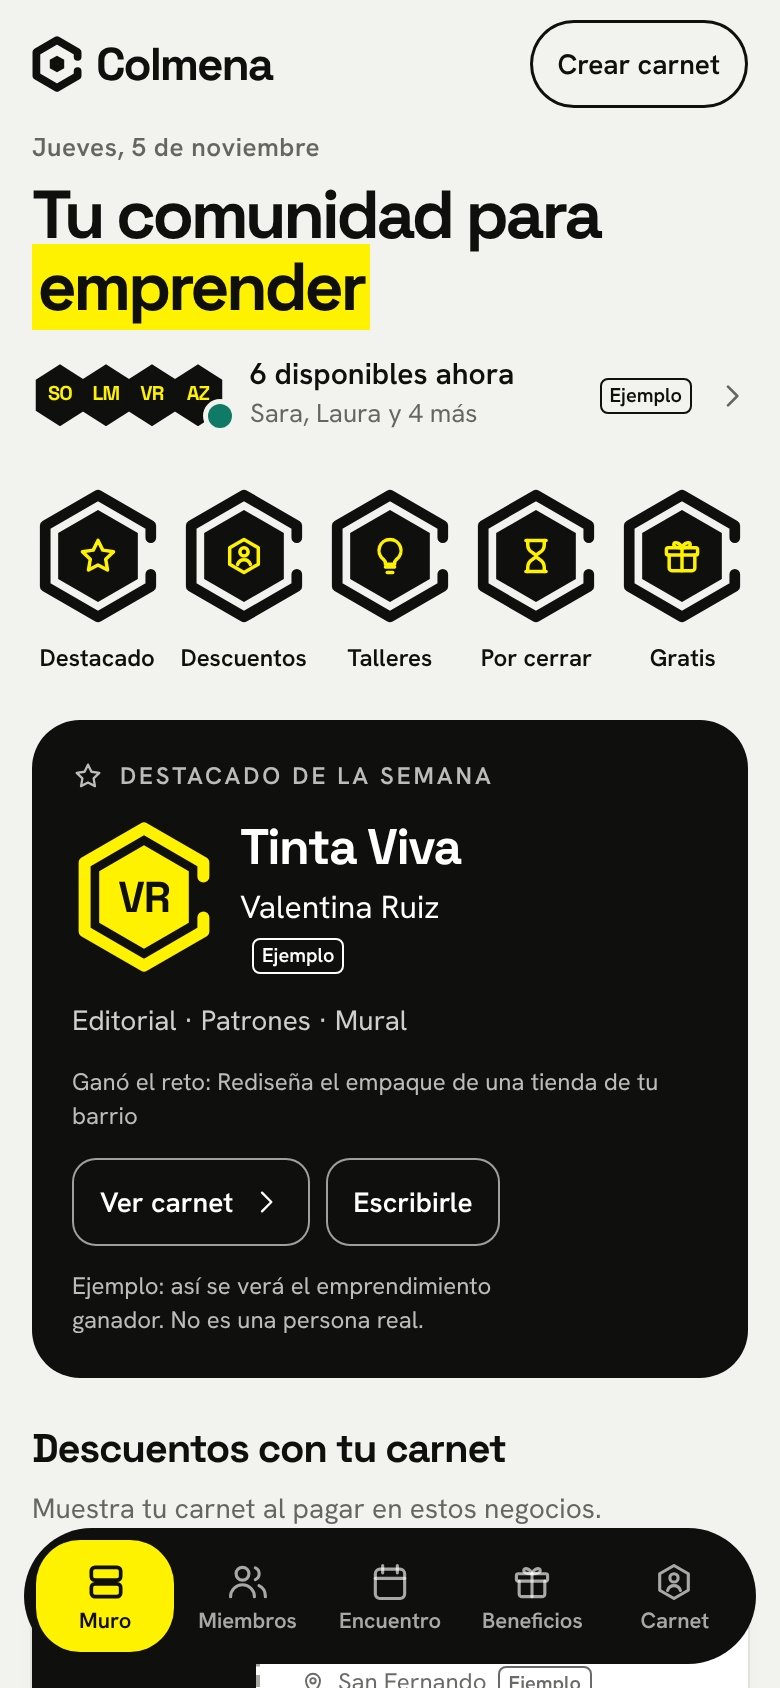
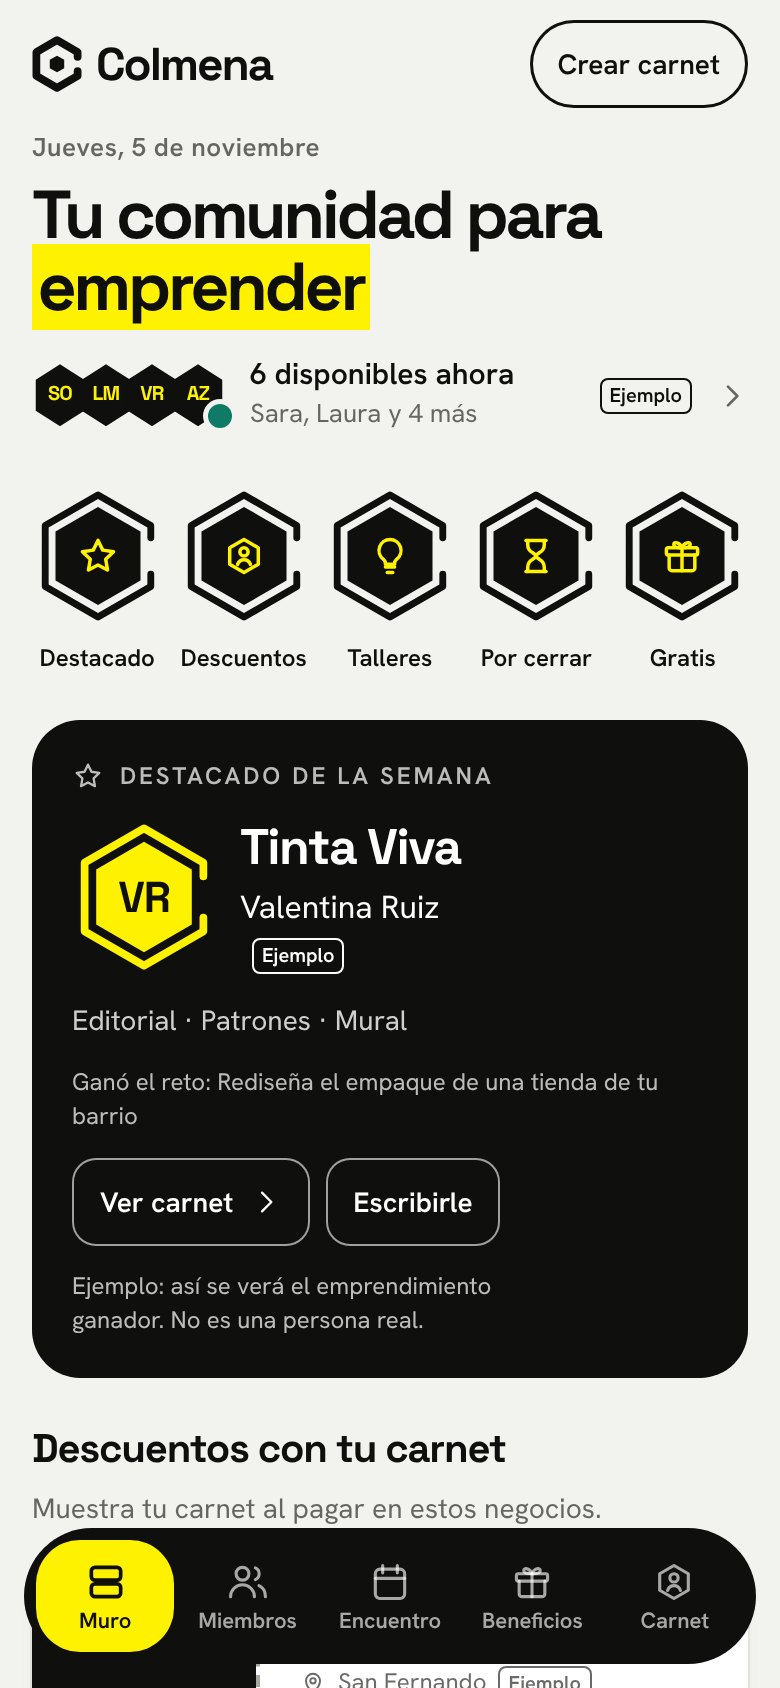
Adelgaza el trazo exterior de la celda
Trazo 4,5 y aire 4,5 en unidades del símbolo: el aire mide lo mismo que el trazo.

Claude-Session: https://claude.ai/code/session_01NXLpfMcdTT21CPEoeYscCh

diff --git a/src/components/ui.jsx b/src/components/ui.jsx
@@ -83,7 +83,7 @@ function celdaInterior(grosor, aire) {
     return (50 + r * Math.cos(a)).toFixed(2) + ',' + (50 + r * Math.sin(a)).toFixed(2)
   }).join(' ')
 }
-export function Celda({ s = 64, grosor = 7, aire = 5, className = '', children }) {
+export function Celda({ s = 64, grosor = 4.5, aire = 4.5, className = '', children }) {
   const h = Math.round(s * 94 / 84)
   return (
     <span className={'celda ' + className} style={{ width: s, height: h }} aria-hidden="true">

diff --git a/docs/iconos/README.md b/docs/iconos/README.md
@@ -22,7 +22,7 @@ Kit propio, dibujado para Colmena. Todos viven en `I` dentro de `src/components/
 - `kit.html` y `kit.png` se regeneraron con los dibujos nuevos.
 
 ## Celda (contenedor con la forma del logo)
-`Celda` en `src/components/ui.jsx` repite el símbolo como contenedor: el trazo abierto usa las coordenadas literales de la celda abierta (viewBox `8 3 84 94`, abertura en el lado derecho) y el hexágono interior es regular, concéntrico y separado del trazo por el mismo aire en los seis lados. Antes, el aro era un polígono SVG y el interior un `clip-path` CSS con otra proporción, por eso no se veían concéntricos; y el carnet de la bienvenida usaba un trazo con lados sueltos. Ahora se usa la misma forma en:
+`Celda` en `src/components/ui.jsx` repite el símbolo como contenedor: el trazo abierto usa las coordenadas literales de la celda abierta (viewBox `8 3 84 94`, abertura en el lado derecho) y el hexágono interior es regular, concéntrico y separado del trazo por el mismo aire en los seis lados. Trazo 4,5 y aire 4,5 (en unidades del símbolo): el aire mide lo mismo que el trazo. Antes, el aro era un polígono SVG y el interior un `clip-path` CSS con otra proporción, por eso no se veían concéntricos; y el carnet de la bienvenida usaba un trazo con lados sueltos. Ahora se usa la misma forma en:
 - los destacados del inicio (Tinta; el trazo se dibuja al entrar y queda gris cuando ya se vio),
 - el visor (Tinta en pantallas claras, Blanco en oscuras),
 - el ganador de la semana (Polen, como insignia ganada) en la tarjeta del inicio y en el visor,
